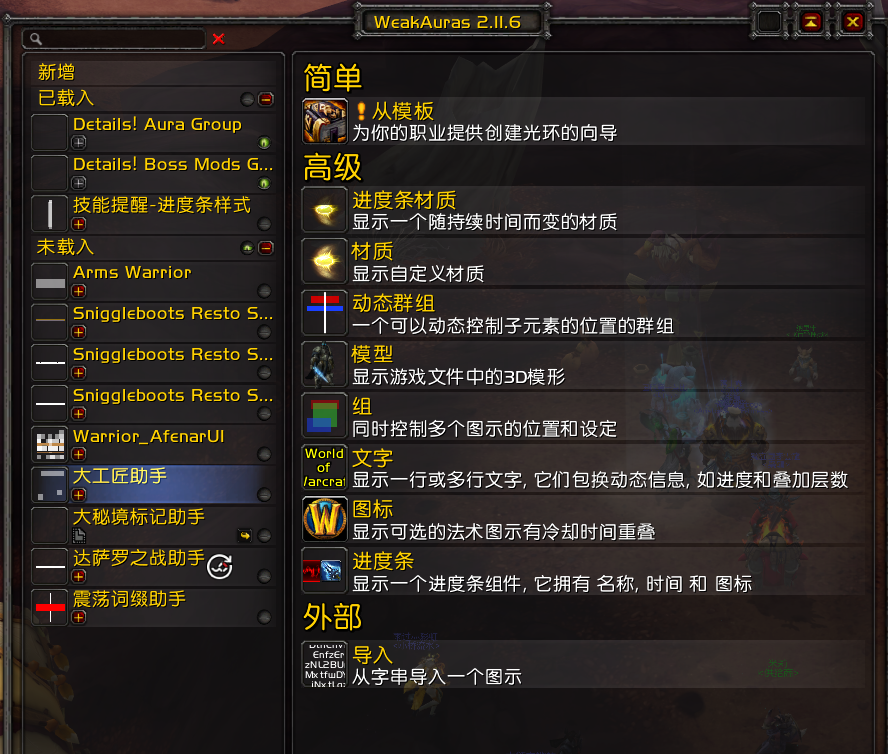
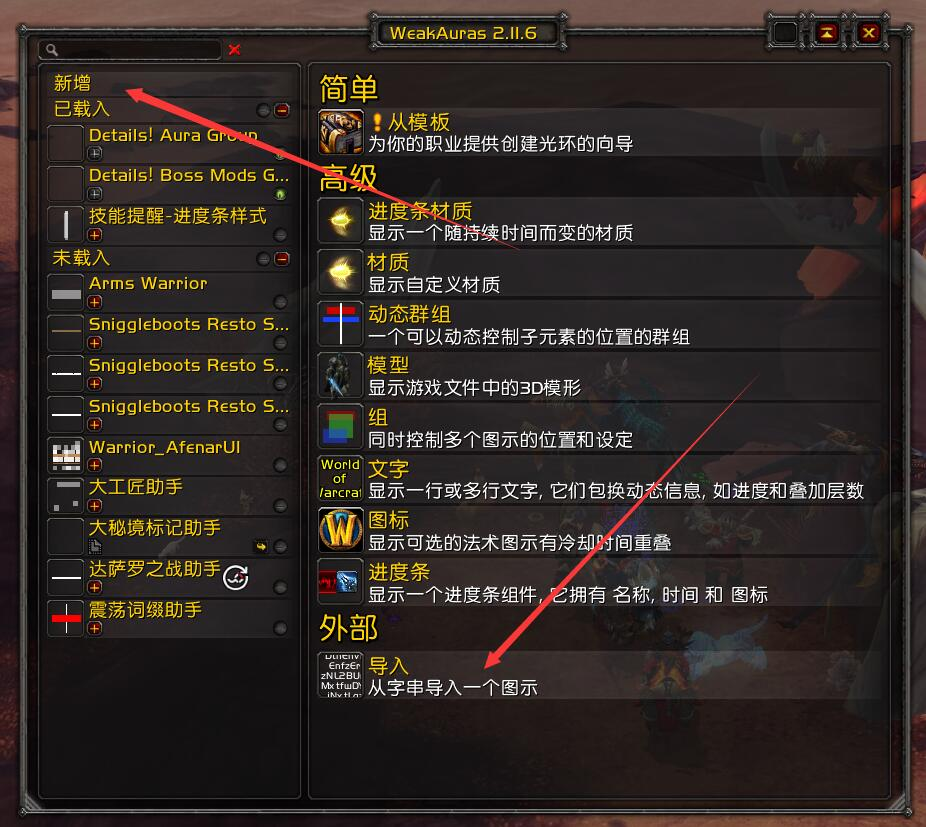
Signed-off-by: leitowow <i@leito.me>

diff --git a/README.md b/README.md
@@ -1,5 +1,16 @@
 # 使用说明
 ![image](https://github.com/Leitowow/addons/blob/master/pic/download.jpg)
+### 找到上方按钮点击Download ZIP下载压缩包
+#### 把你需要的放入游戏目录的/_retail_\Interface\AddOns\内即可
+    WeakAuras字符串使用方法
+## 在文件夹中找到WeakAuras字符串文件夹
+![image](https://github.com/Leitowow/addons/blob/master/pic/wa1.jpg)
+## 打开你要导入的字符串，然后全选→复制
+![image](https://github.com/Leitowow/addons/blob/master/pic/wa4.jpg)
+## 在游戏内输入/wa，点击新增→导入
+![image](https://github.com/Leitowow/addons/blob/master/pic/wa2.jpg)
+## 把复制的字符粘贴到框里，点击导入群组
+![image](https://github.com/Leitowow/addons/blob/master/pic/wa3.jpg)
 # 总览
 
 ##### AdvancedInterfaceOptions - WOW客户端高级设置
